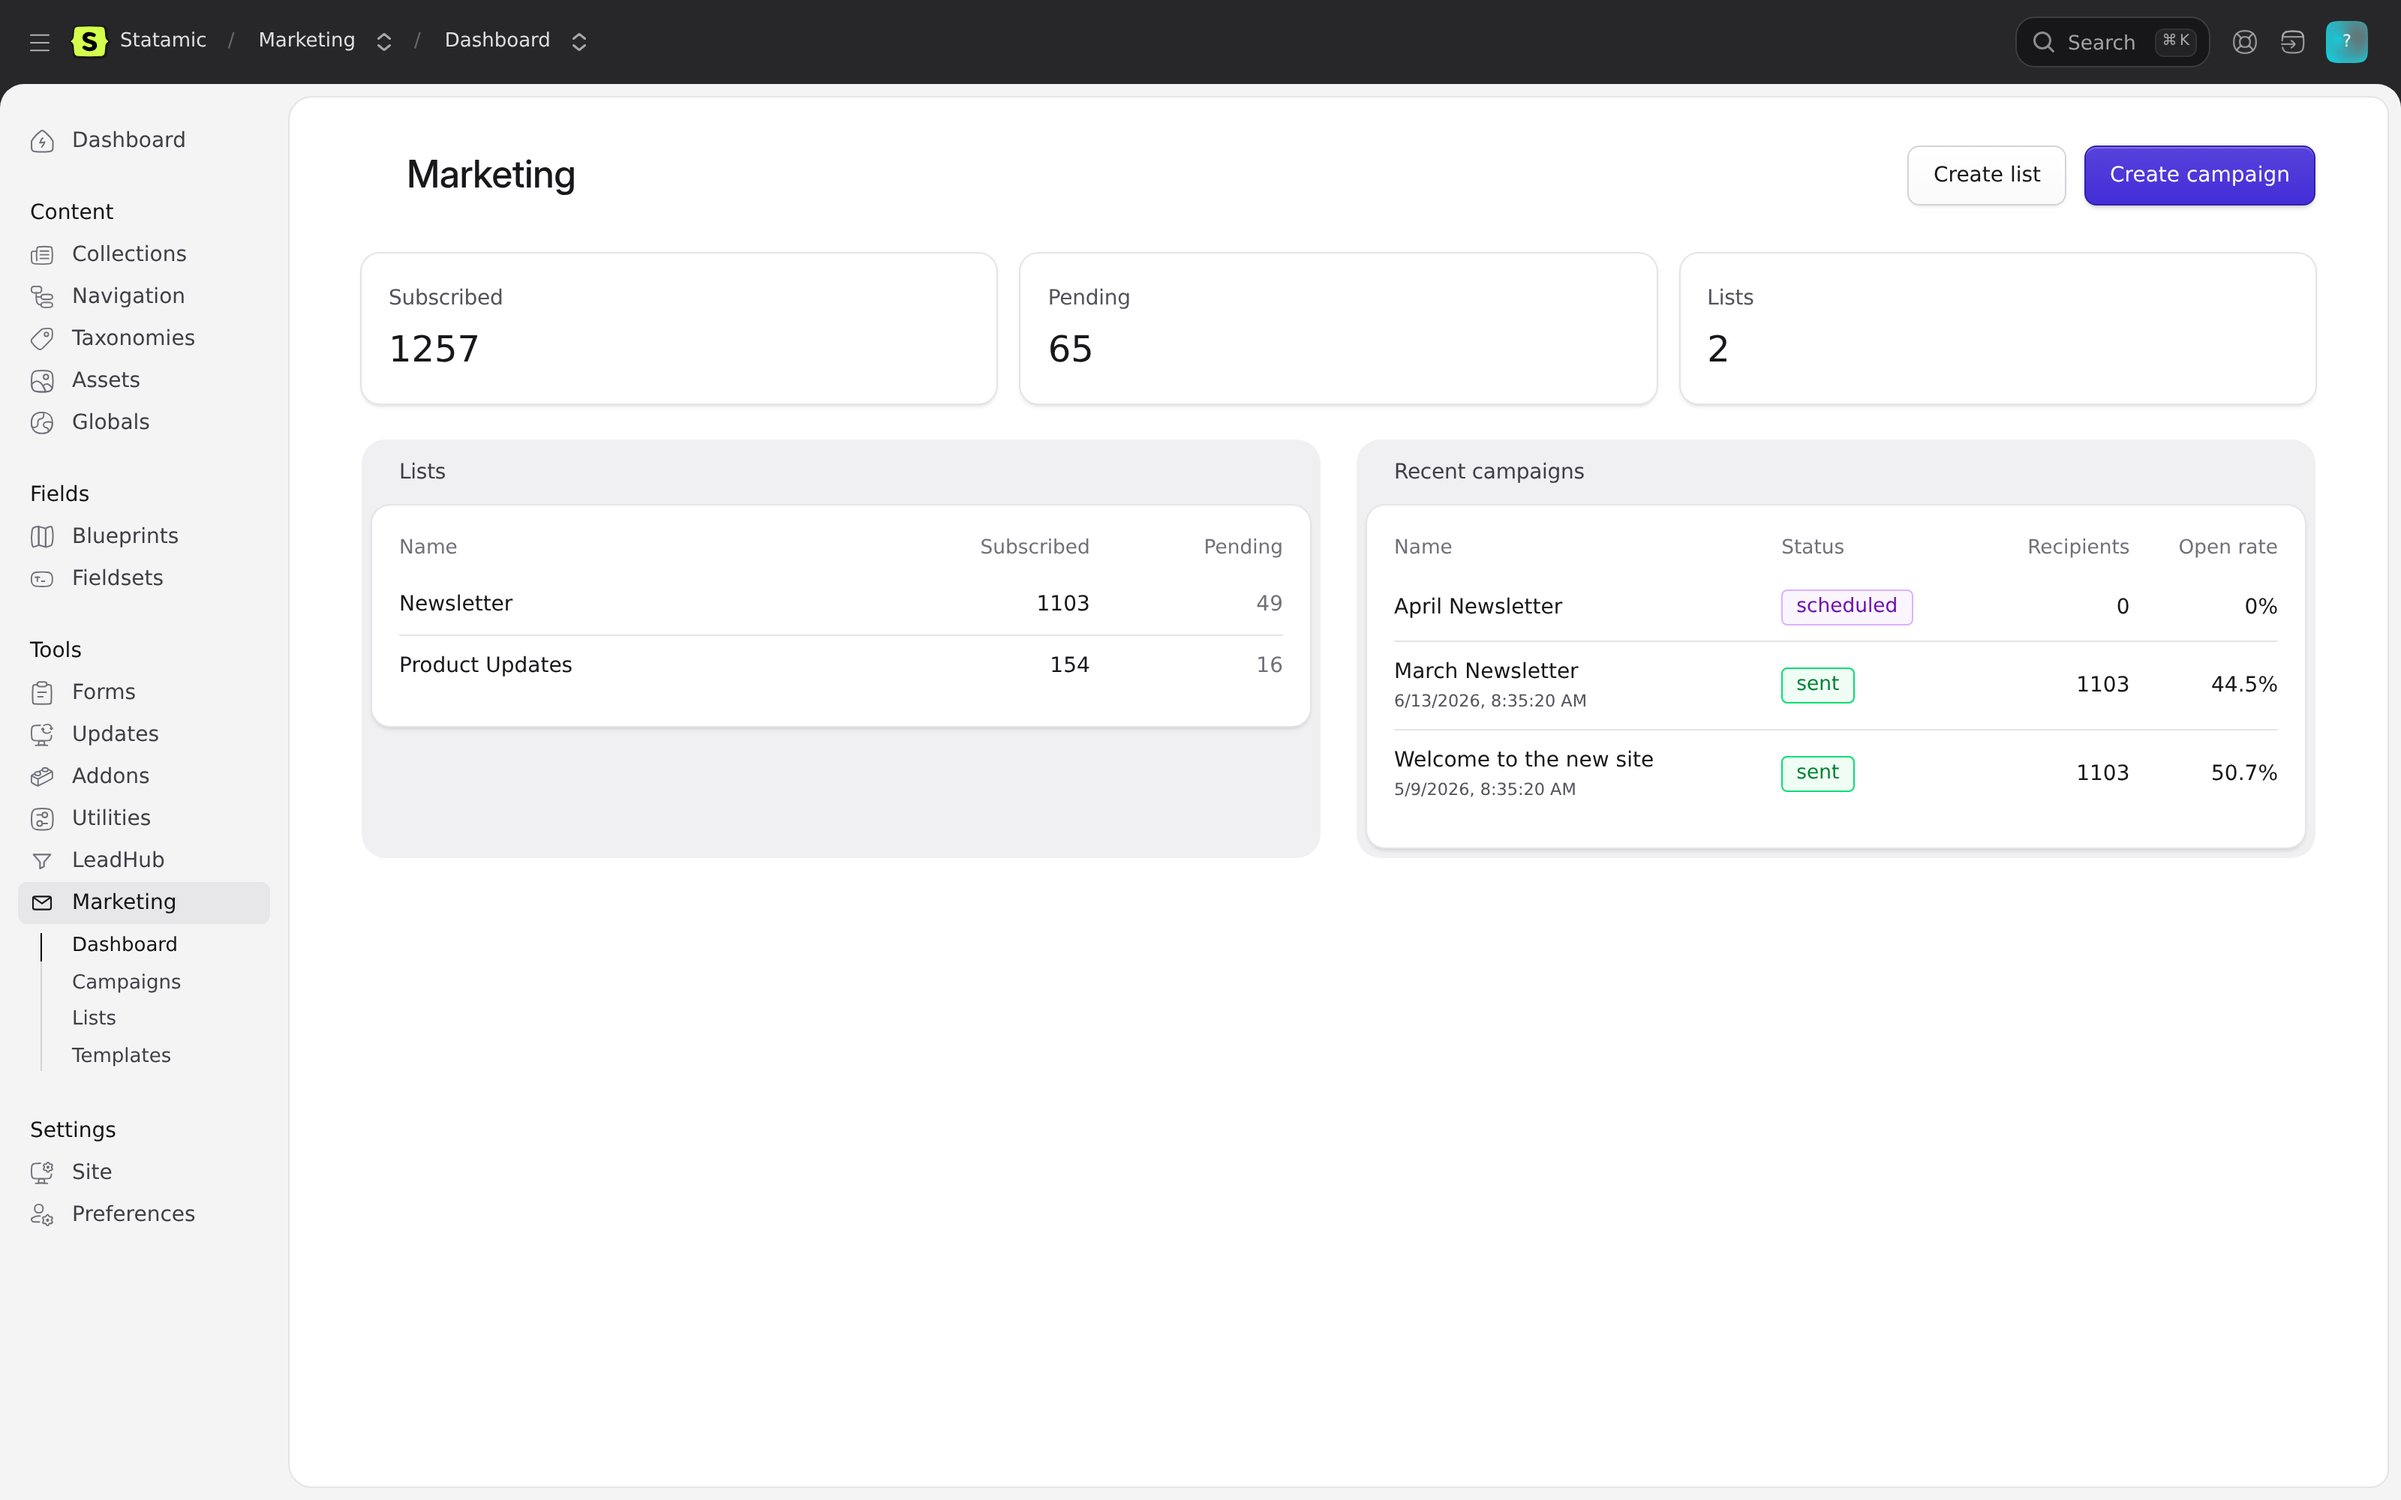
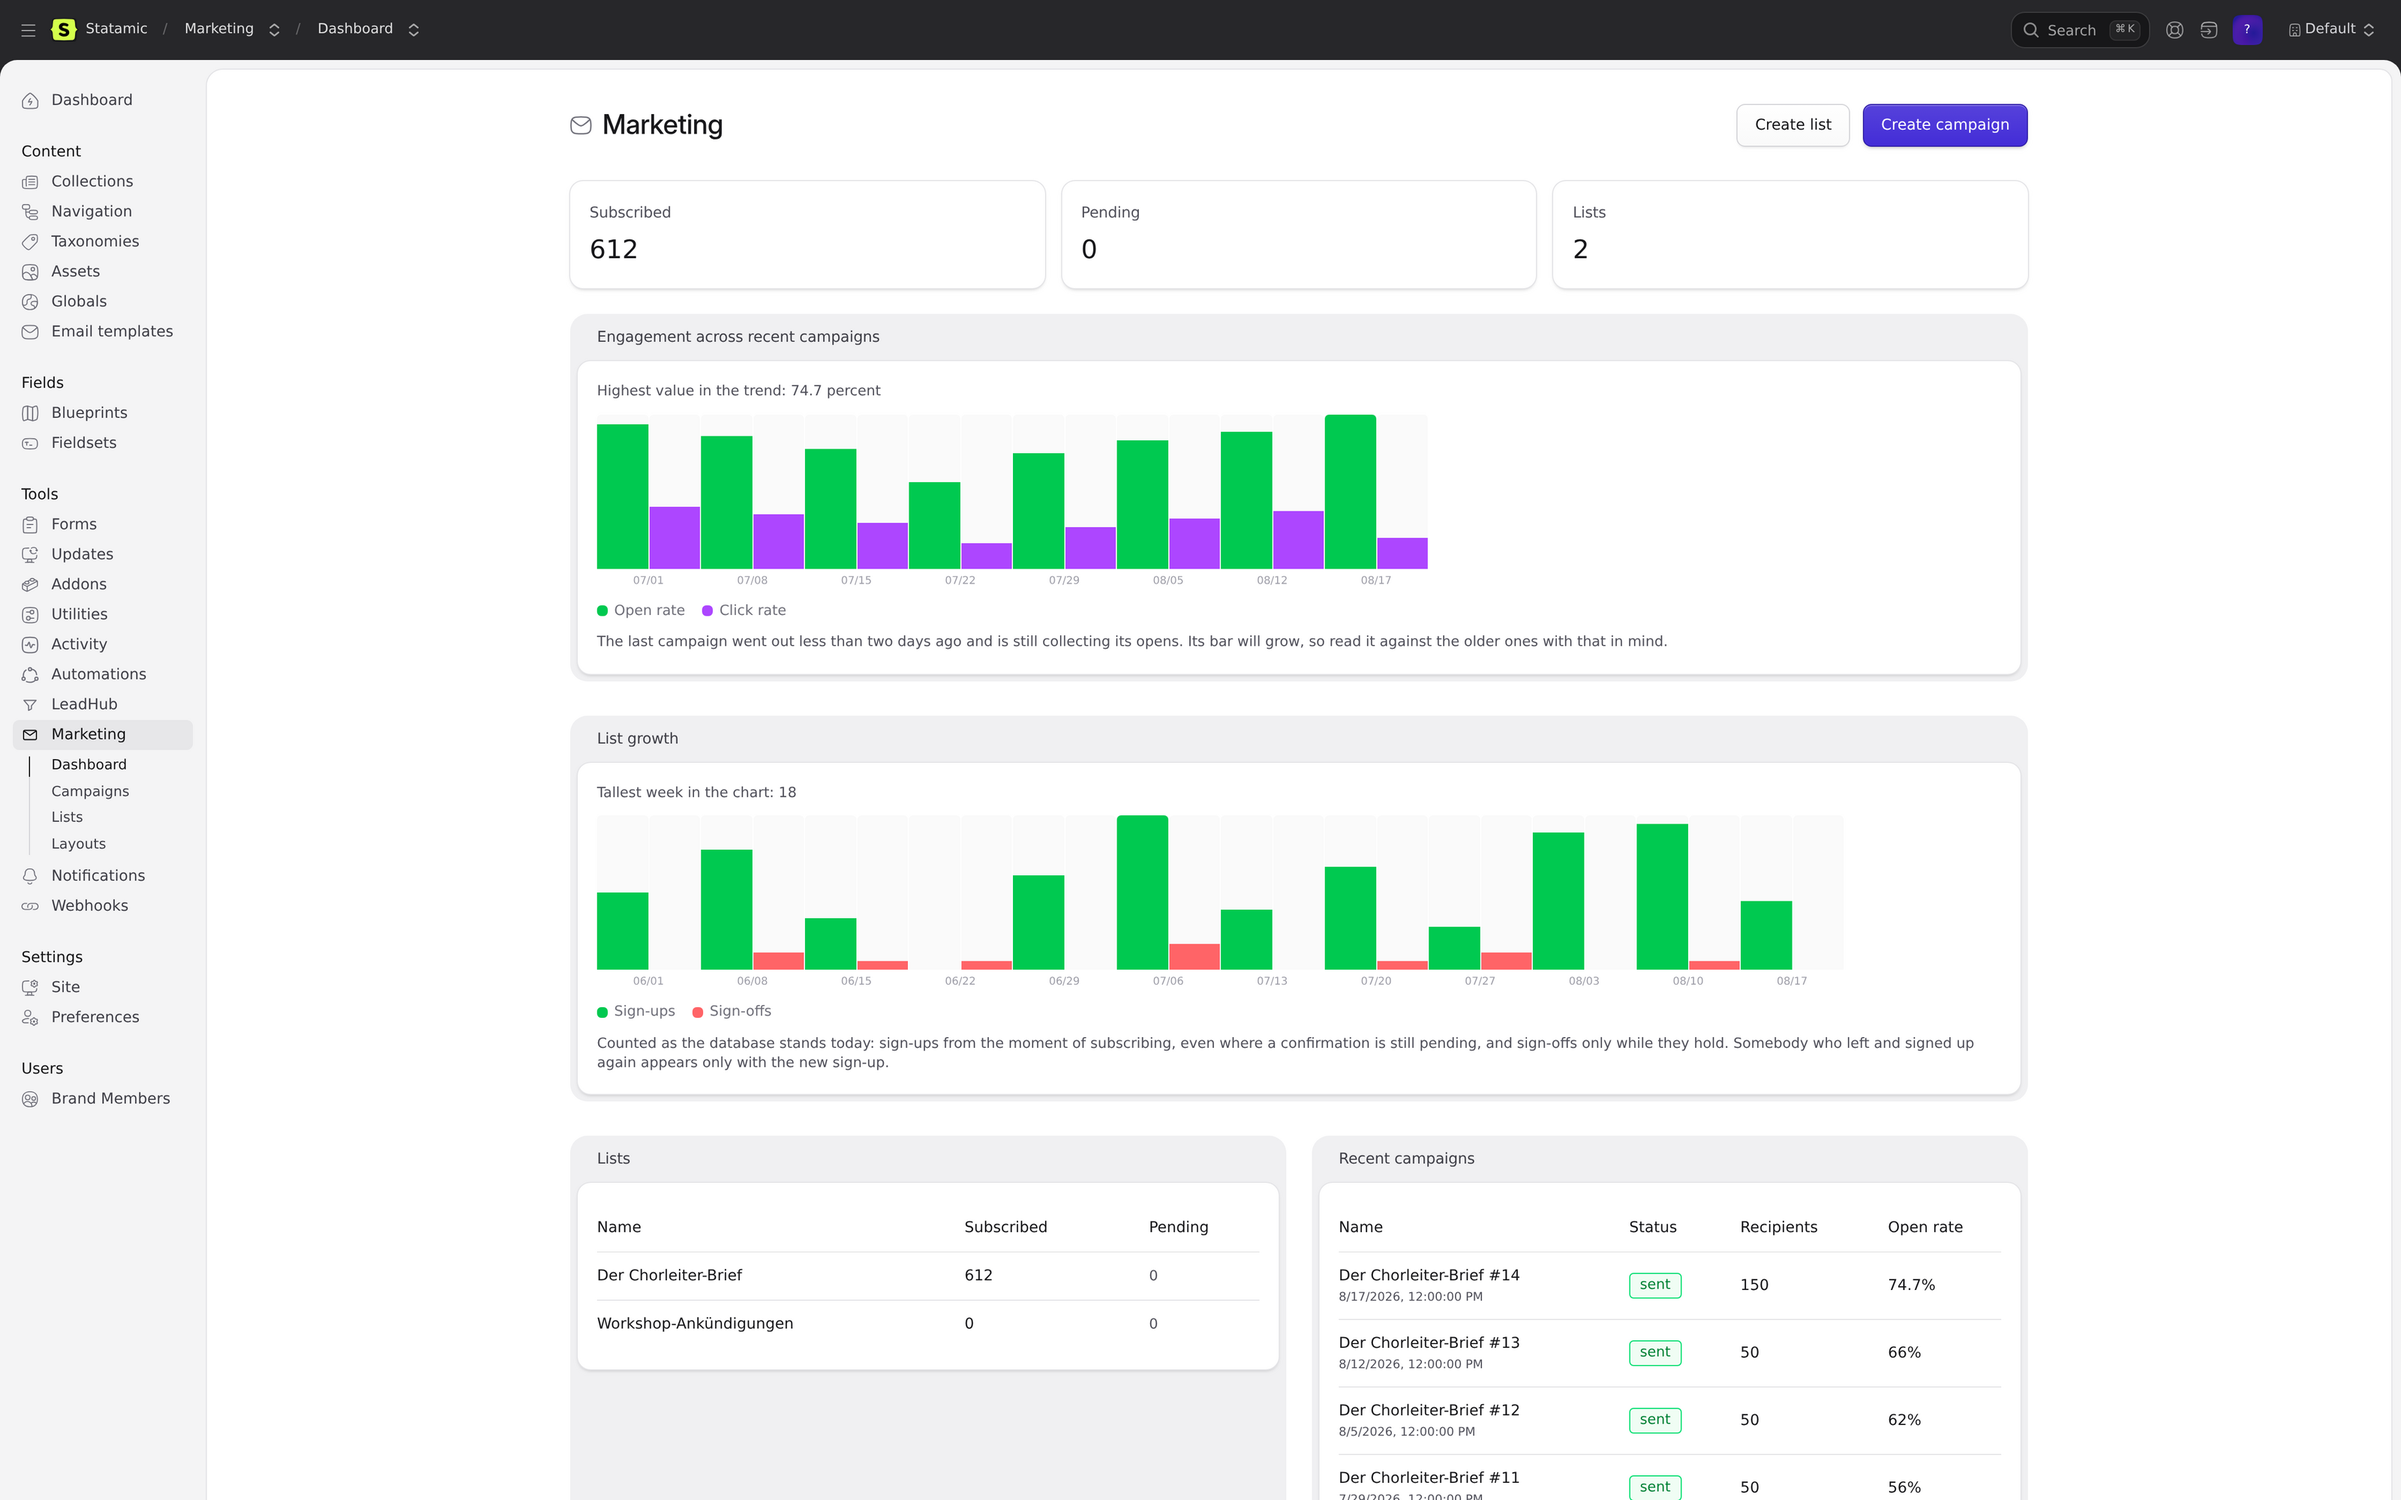
Neue Bilder vom Bericht und vom Dashboard
Beide waren vom 6. August und zeigten weder die fuenf Reiter noch eines der
Diagramme. Gleiches Format wie der Rest (3200x2000), gleiche Bildunterschrift
in aktualisierter Fassung.

diff --git a/README.md b/README.md
@@ -117,9 +117,9 @@ Think Mailcoach, but native to Statamic and built on top of
 | | |
 | --- | --- |
 | ![Marketing dashboard](screenshots/dashboard.png) | ![Mailing lists](screenshots/lists.png) |
-| Audience and recent campaign performance at a glance | Lists with double-opt-in status and live subscriber counts |
+| Engagement across recent campaigns, list growth by week, and where the audience stands | Lists with double-opt-in status and live subscriber counts |
 | ![Campaign composer](screenshots/campaign-edit.png) | ![Campaign report](screenshots/campaign-report.png) |
-| Antlers content, sender, scheduling, test send | Delivery, open and click rates, per-recipient log |
+| Antlers content, sender, scheduling, test send | Five tabs with the people behind each figure, and when the mail was actually read |
 
 ## Requirements
 
